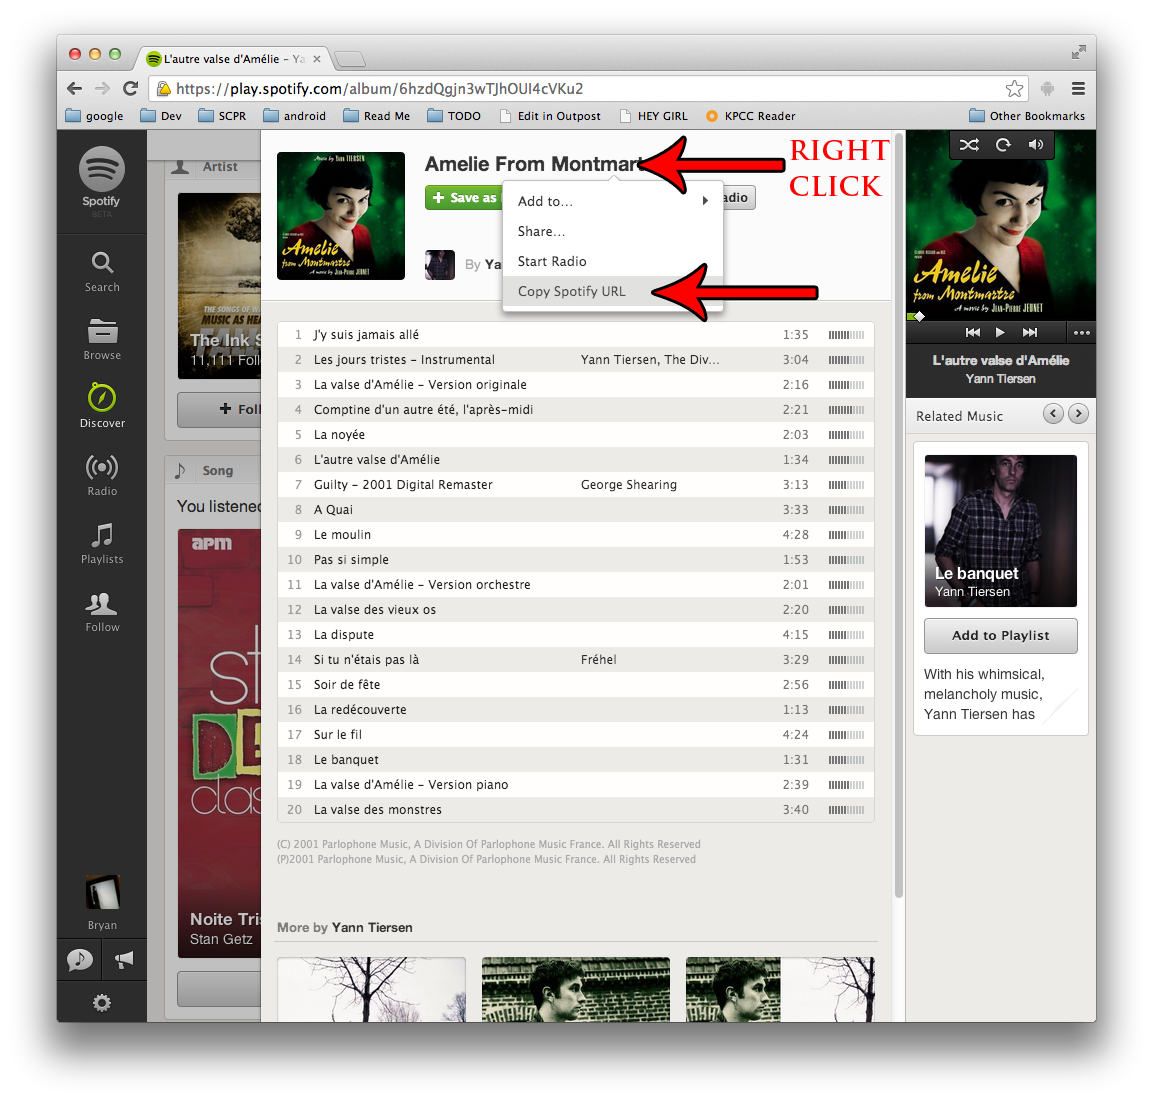
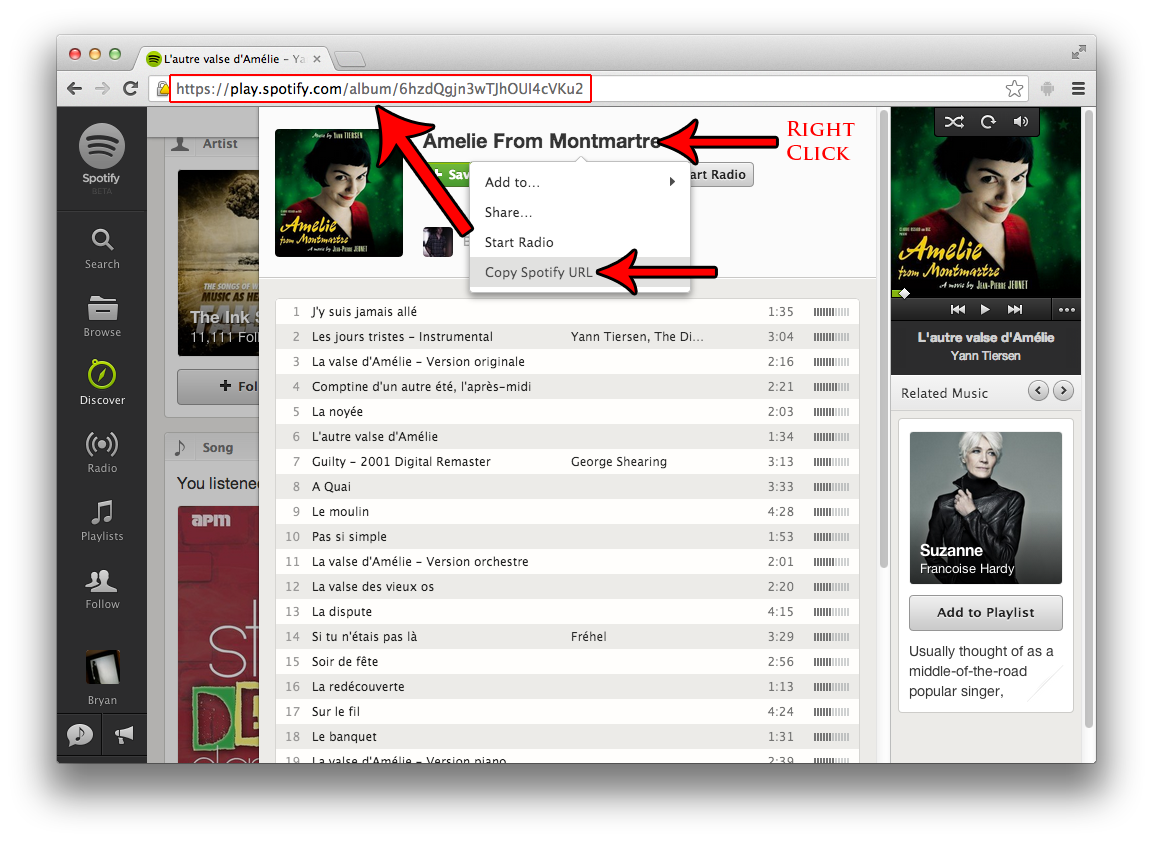
Update instructions for embedding album/playlist

diff --git a/services/spotify/README.md b/services/spotify/README.md
@@ -21,4 +21,6 @@
 
 This works exactly the same way as embedding a single song, except instead of clicking the "three dots" icon, you should right-click the album/playlist title.
 
+Alternatively, you can simply copy the page's current URL when you are viewing an album or playlist.
+
 ![Spotify 4](images/spotify4.png)
